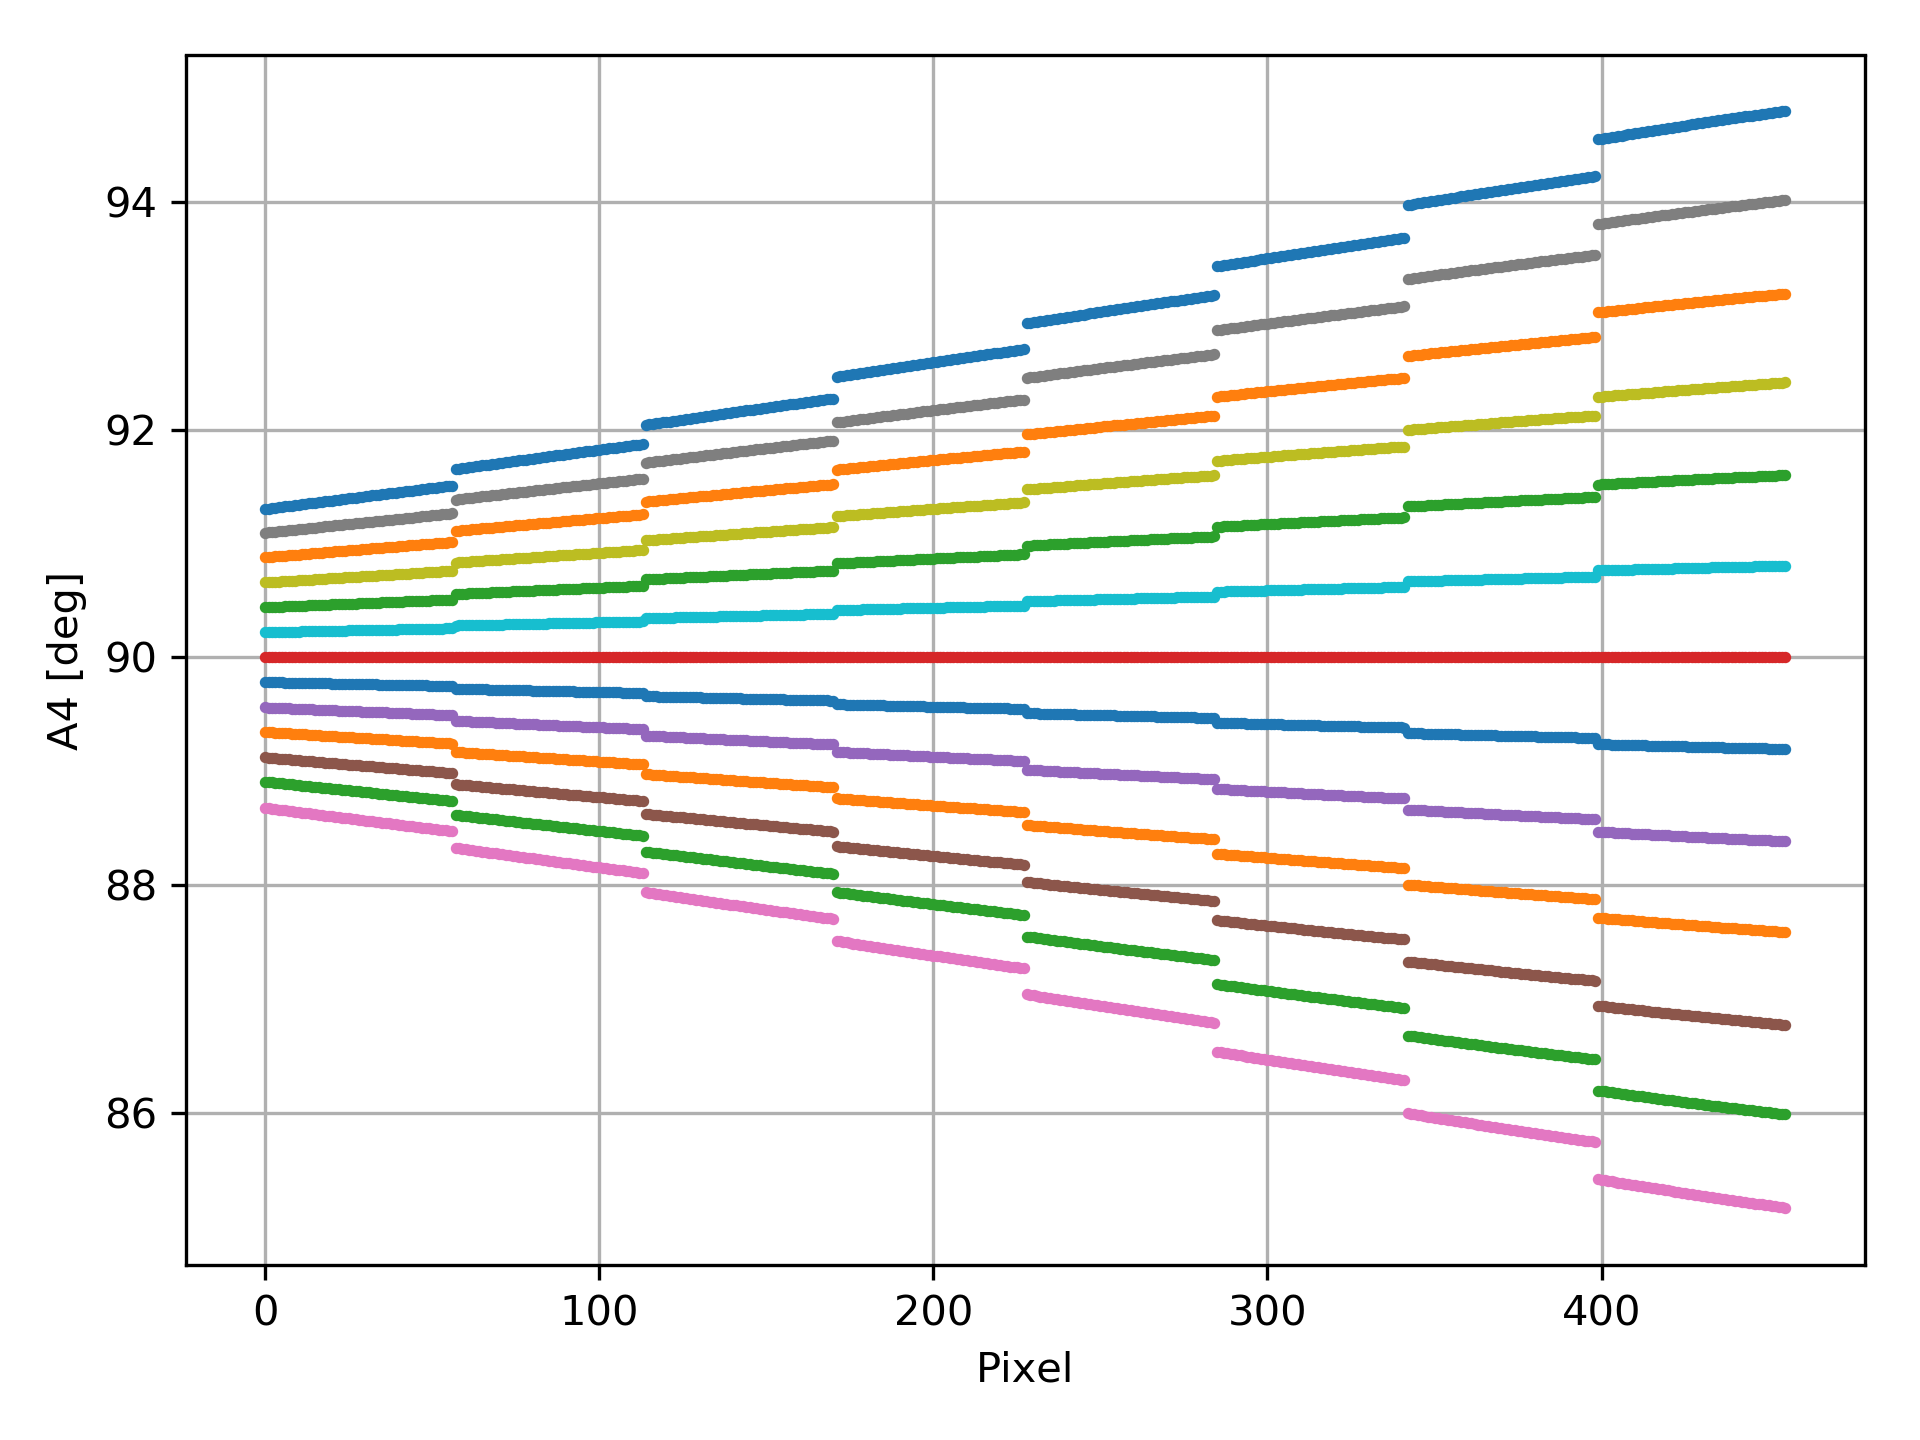
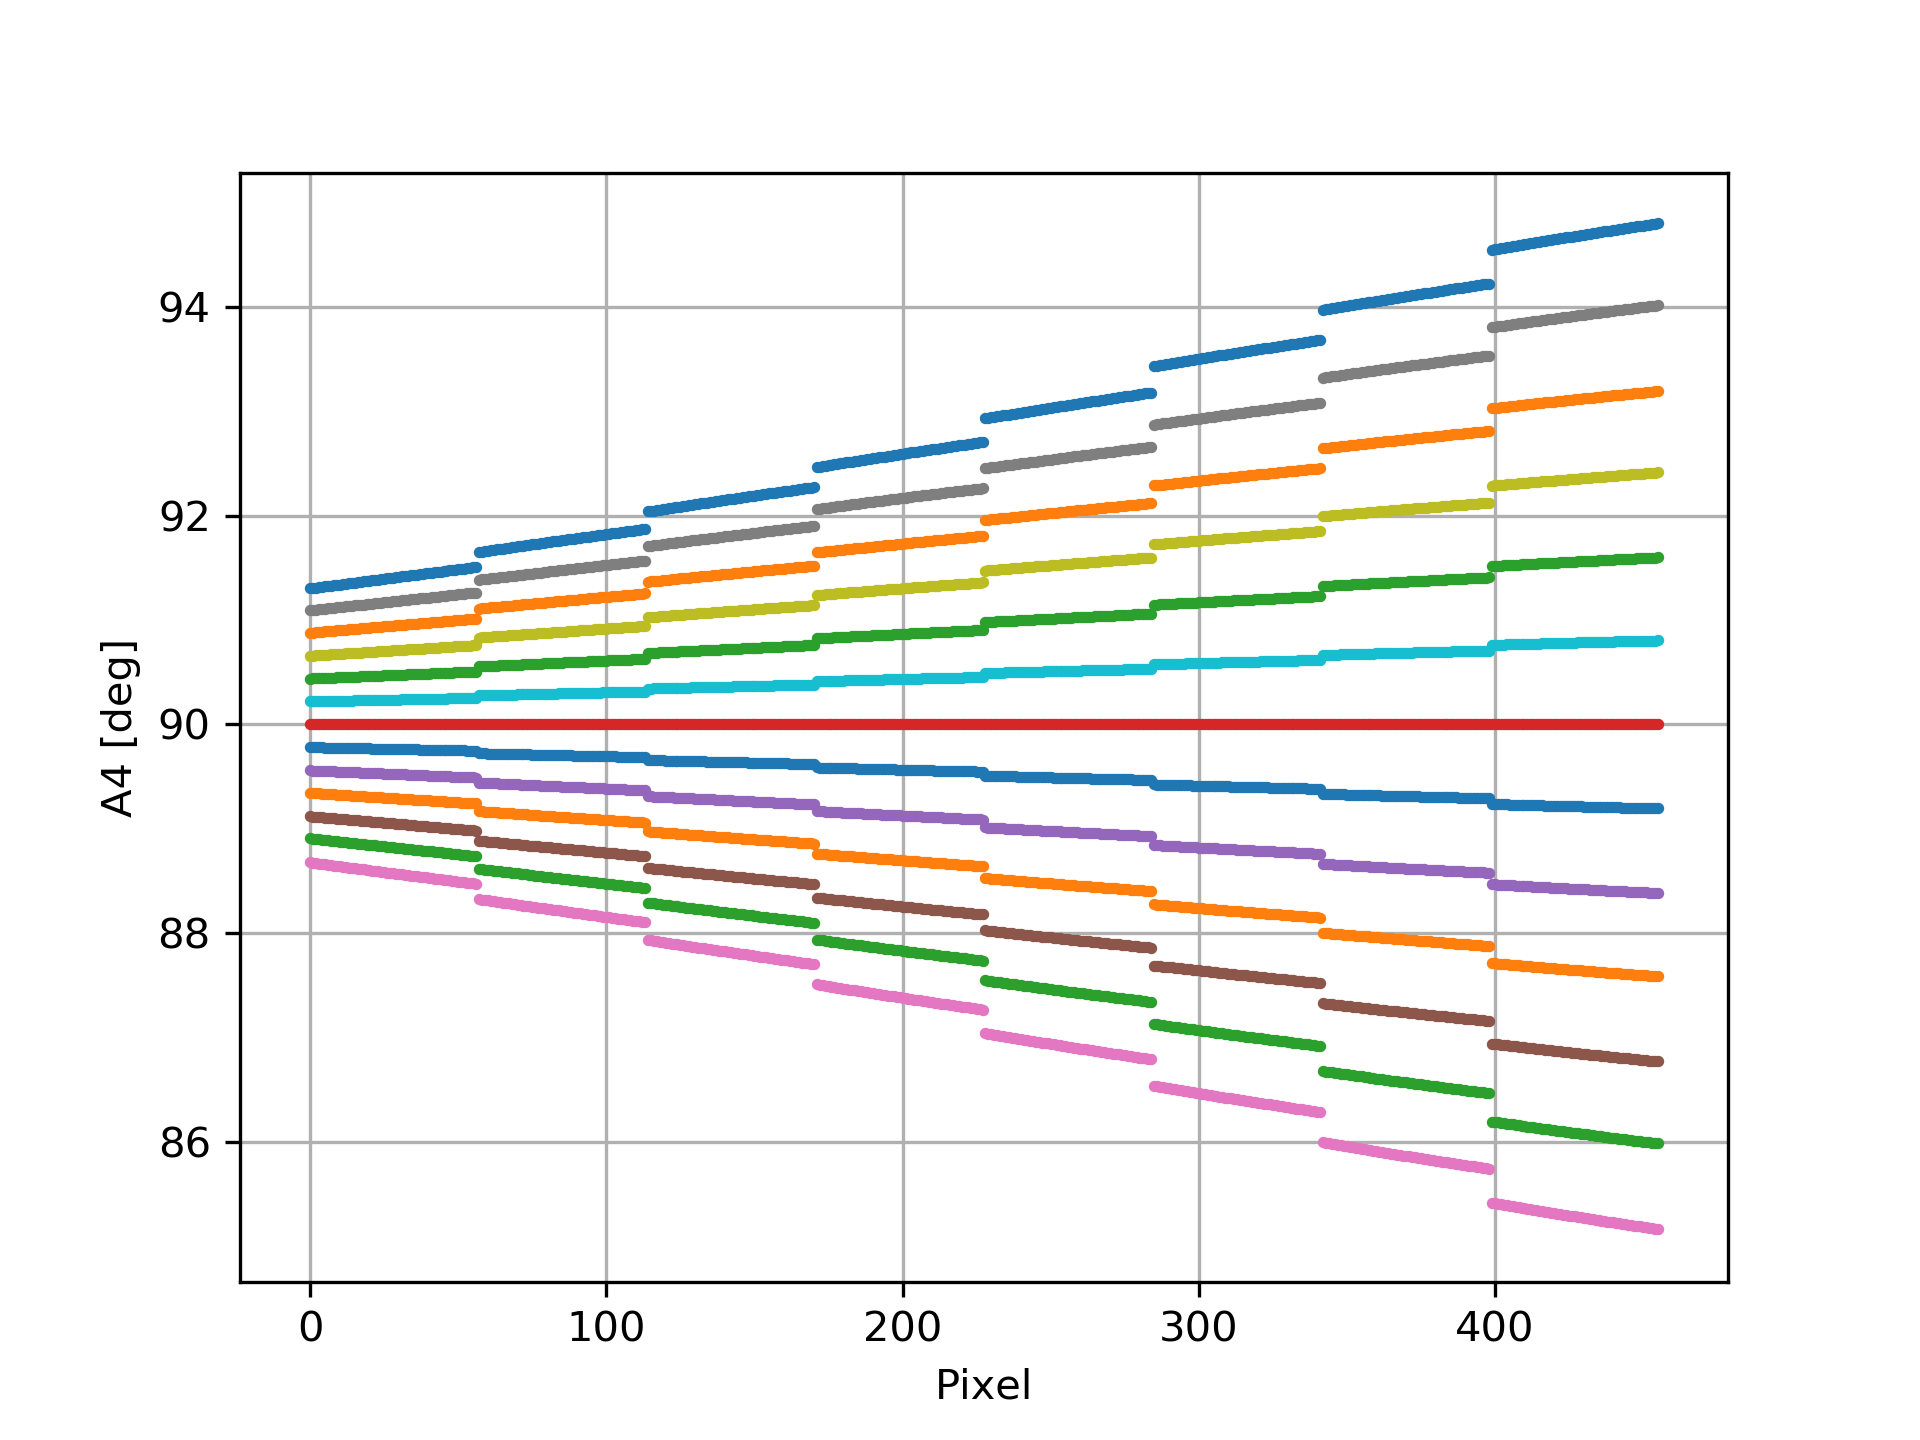
Update Tutorials

diff --git a/Tutorials/Convert_Data.py b/Tutorials/Convert_Data.py
@@ -4,7 +4,7 @@ sys.path.append('..')
 from MJOLNIR.Geometry import Instrument
 from MJOLNIR.Data import DataSet
 
-Instr = Instrument.Instrument(filename='../TestData/CAMEA_Full.xml')
+Instr = Instrument.Instrument(filename='../TestData/CAMEA_Full_2.xml')
 Instr.initialize()
 
 NF = '../TestData/VanNormalization.h5'
@@ -12,5 +12,9 @@ dataset = DataSet.DataSet(instrument=Instr,normalizationfiles=NF)
 
 normalizationfile = '../TestData/EnergyNormalization_8.calib'
 
-DataFiles = '../TestData/VanNormalization.h5'
+DataFiles = []
+for i in range(5):
+	DataFiles.append('/home/lass/Dropbox/PhD/Software/CAMEA_Test_Files/cameasim2018n00000'+str(i+1)+'.h5')
+
+#DataFiles = '/home/lass/Dropbox/PhD/Software/CAMEA_Test_Files/cameasim2018n000005.h5'
 dataset.ConvertDatafile(datafiles=DataFiles,normalizationfile=normalizationfile)

diff --git a/Tutorials/Generate_normalization.py b/Tutorials/Generate_normalization.py
@@ -10,4 +10,4 @@ Instr.initialize()
 NF = '../TestData/VanNormalization.h5'
 
 dataset = DataSet.DataSet(instrument=Instr,normalizationfiles=NF)
-dataset.EnergyCalibration(NF,'../TestData/',plot=False,tables=['PrismaticHighDefinition',3]) 
+dataset.EnergyCalibration(NF,'../TestData/',plot=True,tables=['PrismaticHighDefinition',3]) 

diff --git a/Tutorials/Load_Instrument_From_XML_file.py b/Tutorials/Load_Instrument_From_XML_file.py
@@ -31,7 +31,6 @@ for det in range(len(Instr.wedges[0].detectors)):
 plt.grid('on')
 plt.xlabel('Pixel')
 plt.ylabel('A4 [deg]')
-plt.tight_layout()
 plt.savefig('SimpleInstrument_A4.png',format='png',dpi=300)
 
 plt.figure()
